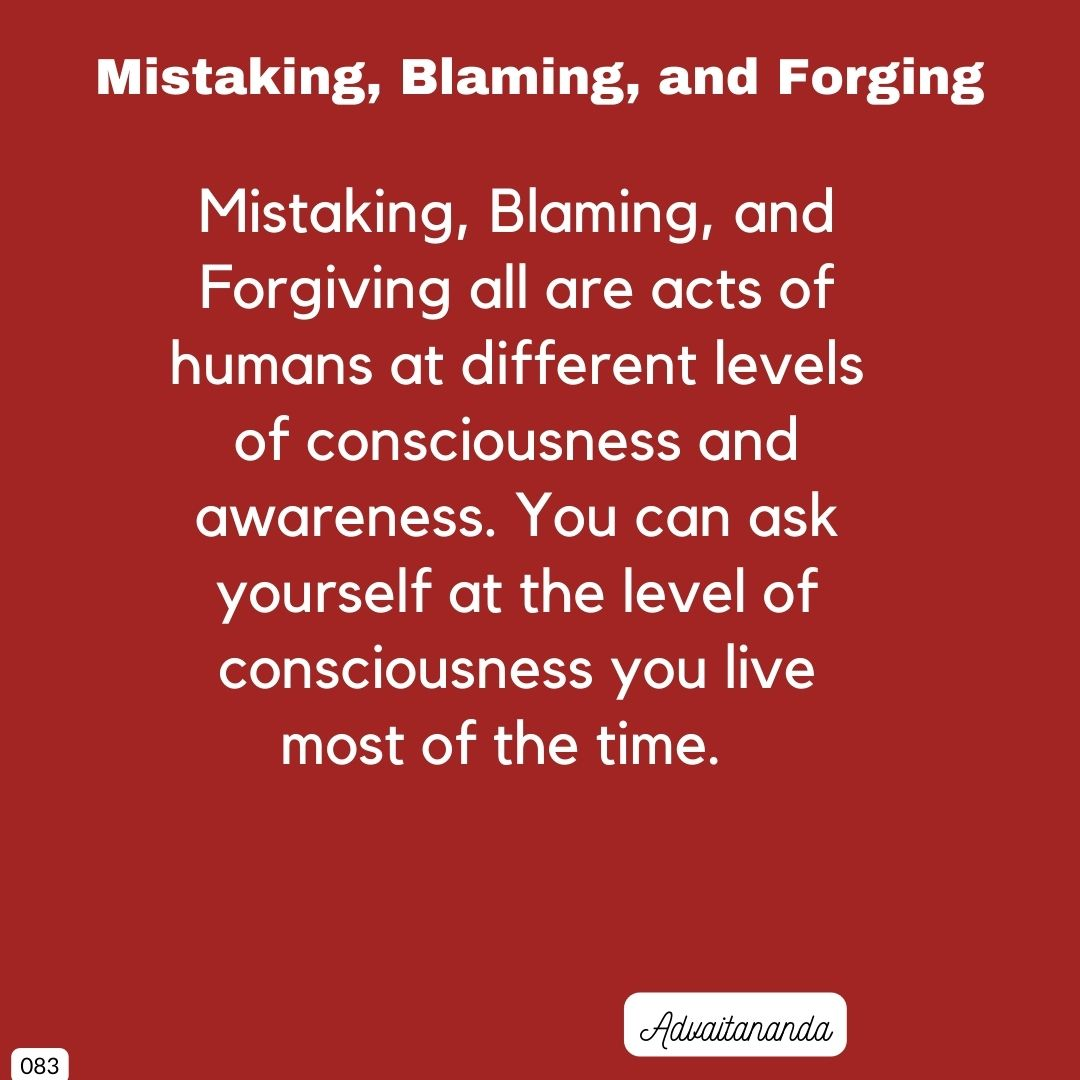
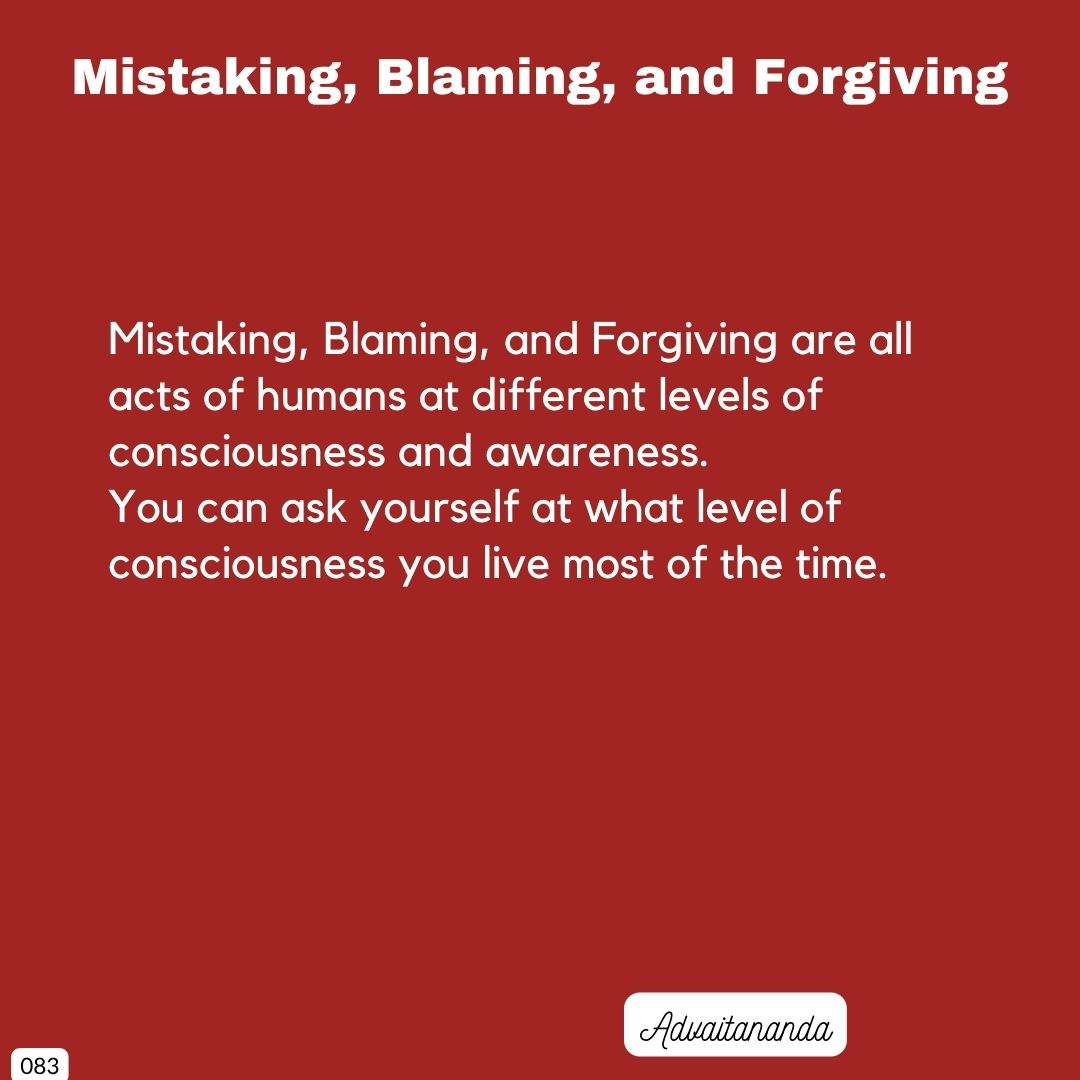
Wia-Quotations

Changed region(s): [[0.0917, 0.1528, 0.8556, 0.7333], [0.0611, 0.0306, 0.9472, 0.1222]]

diff --git a/_projects/2024-01-04-Wisdom-in-Awareness-Quotations.md b/_projects/2024-01-04-Wisdom-in-Awareness-Quotations.md
@@ -1,0 +1,159 @@
+---
+id: 854    
+title: "Book: Wisdom in Awareness - Quotations for the Clarity"
+layout: single
+toc_sticky: true
+permalink: /Wisdom-in-Awareness-Quotations-for-the-Clarity
+date: 2024-01-04
+tags: [Publications]
+header:
+  teaser: /assets/images/projects/WIAQfC-Coverpage2.jpg
+  # overlay_image: /assets/images/projects/mfpm-editation1.jpg
+  # overlay_filter: 0 # same as adding an opacity of 0.5 to a black background
+author_profile: false
+last_modified_at: 2024-01-04T15:46:43-04:00
+toc: false
+mathjax: "true"
+sidebar:
+   nav: "docs"
+---
+
+![Book: Windom in Awareness - Quotations for the Clarity](/assets/images/projects/WIAQfC-Coverpage2.jpg)
+
+# Book: Wisdom in Awareness
+## Quotations and Passages for the Clarity
+
+[Kindle Read](https://www.amazon.in/dp/B0CRHX2D12)
+
+Human mind works best with sound, images, and smell. In the animal kingdom we are not among the strongest species. Yet we are thriving on this planet. In comparison to other animals of planet earth, our brain has evolved to the extreme. We can reason, imagine, remember many things, remember for a very long time, and we have intuition and telepathy. These capabilities came to us over millions of years of evolutionary process. Reading and writing characters, words, sentences is the latest capability in this evolutionary process. That is why every human knows how to use sounds, images, and smell for signaling and survival but many of us don't know how to read letters of a single language. Reading words, sentences and books is painful for them. But there are some who can speak, read and write poetry and philosophy in multiple languages. 
+
+We know a picture can speak a thousand words but many of us cannot draw a circle or straight line correctly. But, this is about writing. There are many people who can read but cannot write. There are a few who can write and read in multiple languages. Even if you can write and draw, you know writing is easy compared to drawing, unless you are a wizard of painting and drawing.
+
+Even if writing is easy compared to drawing, many people cannot even write. Reading a complex image is easy for many people rather than reading a paragraph. This is the reason compressing information in lesser words is important. But, in this process essense of the text should not be dropped or misrepresented. Quotations are the way to compress that information.
+
+Wisdom is quintessential things which we develop within us, after listening, reading, observing, experimenting, and experiencing. Every human has some wisdom. When we want to share that wisdom, we take the help of letters, words, grammar, script, sound of any language and script. We can also take help of drawing. What we write or draw or speak is information for others. Whether it will become a listener's or reader’s wisdom or not, it depends upon them. Before that information becomes wisdom for them it becomes knowledge for them.
+
+I was fond of so-called one line wisdom quotations. Over the period of time I realized this has the following problems. 
+"Wisdom Quotation" for speaker or writer is packed information for the readers, it is not wisdom for listeners and readers. 
+Many times these quotations are trying to play with words and acronyms. Life is more than those words or acronyms of any language. Word play can help in memorization but it is not helpful in living a wise life.
+These quotations are trying to solace us or divert our mind to positive thinking but life is throwing some different stuff at the readers. Therefore the readers are able to memorize those short phrases but not able to handle them or apply them. 
+Human life needs help in asking deeper questions rather than memorizing the answers. But these quotations are trying to answer many of our life problems. Therefore for the short term it okey, but in long you become a person of words not person of wisdom.
+People want to use templates for everything, even for the life they are looking for a template. Using a template with least mental and cognitive burden you can solve a problem quickly. But we know these templates don't work when we try to apply them in our life. No matter how many templates you try, your solution will come from your own deeper questions and thinking. Templates can help but ultimately only a thinking mind can endure or come out of the problem. Other people get crushed or keep crying or hoping or blaming.
+
+Keeping this all in mind, I wrote this book. In general, quotations or passages or paragraphs in this book are longer than normal quotations. The nature of the quotations in the book is different, they are provocative, force you to think, challenge the conventional way, and encourage readers to find a new way to come out of that mindset which has made you stuck in the web of words. 
+
+99% of the quotations in this book are coming from my reflections and meditative mood. Some of the quotations of other philosophers and thinkers have been used here, names of those are written below the respective quotations. I was writing these quotations on my quotation blog for a long period of time under my pen name "Advaitananda". I have selected some of the quotations from there creating this, compiling them here in this book.
+
+When there are two there is a relationship. A relationship of dependent and dependee. There is expectation in the relationship. When there is only one then all the relationship and expectations fades away. Life comes to the center. Advaita is a Sanskrit word, it means not two. Advaitananda means one who is established in the bliss of the Self.
+
+
+
+# Quotation Headings
+
+1. Life in Living Being
+1. Purpose of the Human Life
+1. Transactions in the World
+1. Map is not Road
+1. Six Topics to Think
+1. Morality vs Humanity
+1. Janmashtami 2021
+1. Happiness through Love
+1. Creating Wonderful Human
+1. Spiritual Gurus vs ML Engineer
+1. Existence without Adjectives
+1. Accept Life in Totality
+1. Self Beyond Word
+1. Worship
+1. Genius is Disease
+1. What is an Accident?
+1. Rationality
+1. What is Health?
+1. Respect vs Tolerance
+1. Touching Feet
+1. Inactivity
+1. Living and Dying
+1. Do not Kill your Body
+1. Looking into Eyes
+1. Immortality beyond Graveyard
+1. Mind is illness
+1. Falling in Love
+1. Do not get hooked on the words
+1. Pursuing Realty in Dream
+1. Life and God
+1. Means and Goal
+1. Meaning of Spiritual Life
+1. Language of the Cosmos
+1. Understanding, Interpreting, and Solutioning
+1. Food Habit
+1. Real Face
+1. Love and Moksha
+1. Happiness First
+1. Life Style & Happiness
+1. Love and Mind
+1. Bondage is our creation
+1. Sky can arrest you
+1. Purpose of Education
+1. Opposites Attracts
+1. What should we do, for the peace of Mind?
+1. Empty Mind
+1. God Supports the Weaker?
+1. Listener, Message and Messenger
+1. Circular Life
+1. Happiness and Friends
+1. Suffering, Pain, and Happiness
+1. Krishna and Cows
+1. Travel and Direction of Travel
+1. Our Mind
+1. Mind and Life
+1. Source of Words and Objects
+1. Defending in ignorance
+1. Arrogance
+1. Sensitive Heart
+1. Assumptions
+1. Symmetry for Survival
+1. Heating to Blasting
+1. Vijaya Dashmi
+1. Knowing Facts vs Realizing Truth
+1. Angerlessness is not Virtue
+1. Dissolve your Suffering
+1. Reflective Mind
+1. Natural Mind vs Cultured Mind
+1. Level of Living Philosophy
+1. Hard work vs Donkey Work
+1. Interpreting Math Formula
+1. Attitude towards Luck
+1. Source of Happiness
+1. Forgetting and Forgiving
+1. Mistaking, Blaming, and Forgiving
+1. World is Perfect
+1. What is Nididhyasana?
+1. Human Fear is Permanent
+1. Awareness
+1. Tragedy of Thinking
+1. Objectification of Subject
+1. Infinity Divider
+1. Type of Mind
+1. AI and Human Jobs
+1. Limitation of Grammar
+1. About Awareness
+1. Information Bombardment
+1. Three things to happen
+1. Worldly Joy
+1. Manas and Chaitnya
+1. Price of the Freedom
+1. Knowledge Base in Sanskrit
+1. Types of Vedanta
+1. The Way to know the Self
+1. Restfulness
+1. Saakshi of Mind
+1. Mindless Competition
+1. Context Based Learning
+1. Adjusting Intensity of Mamkaar
+1. Experience of True Self
+1. CSR and Charitable Indian
+1. Consciousness in Deep Sleep
+1. Who Am I?
+1. Unsupported Warranty
+1. Watching your Mind
+1. A Fast Moving Train
+1. Time Creation

diff --git a/_projects/2023-12-11-Mindful-Project-Management.md b/_projects/2023-12-11-Mindful-Project-Management.md
@@ -1,5 +1,5 @@
 ---
-id: 851    
+id: 853    
 title: "Book: Mindful Project Management"
 layout: single
 toc_sticky: true
@@ -7,7 +7,7 @@ permalink: /mindful-project-management
 date: 2023-12-11
 tags: [Publications]
 header:
-  teaser: /assets/images/projects/mfpm-editation1.jpg
+  teaser: /assets/images/projects/mfpm-Coverpage1.jpg
   # overlay_image: /assets/images/projects/mfpm-editation1.jpg
   # overlay_filter: 0 # same as adding an opacity of 0.5 to a black background
 author_profile: false
@@ -18,7 +18,7 @@ sidebar:
    nav: "docs"
 ---
 
-![Book: Mindful Projet Management](/assets/images/projects/mfpm-editation1.jpg)
+![Book: Mindful Projet Management](/assets/images/projects/mfpm-Coverpage1.jpg)
 
 # Book: Mindful Projet Management
 ## Voyage of a Project Manager

diff --git a/_projects/2020-12-28-Sarcasm-Detection-System-for-Hinglish-Language.md b/_projects/2020-12-28-Sarcasm-Detection-System-for-Hinglish-Language.md
@@ -1,5 +1,5 @@
 ---
-id: 853    
+id: 851    
 title: "Research: Sarcasm Detection System for Hinglish Language"
 layout: single
 toc_sticky: true
